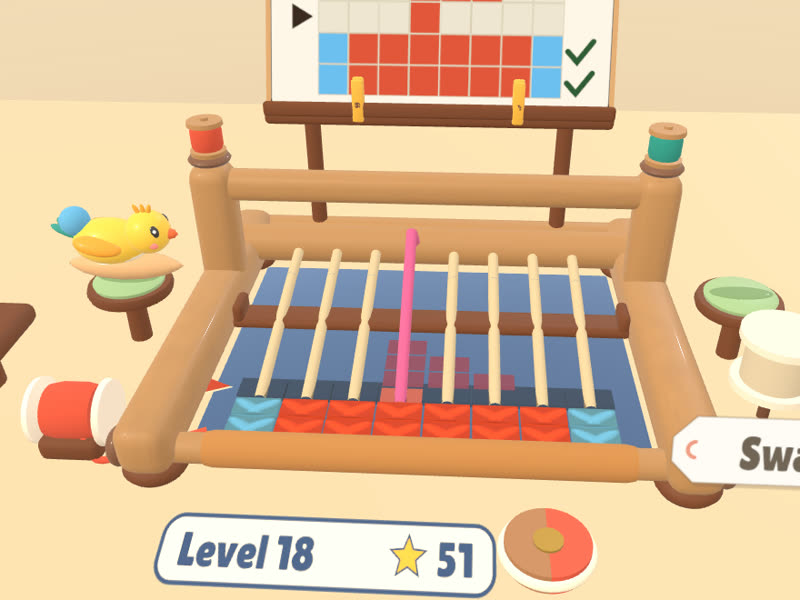
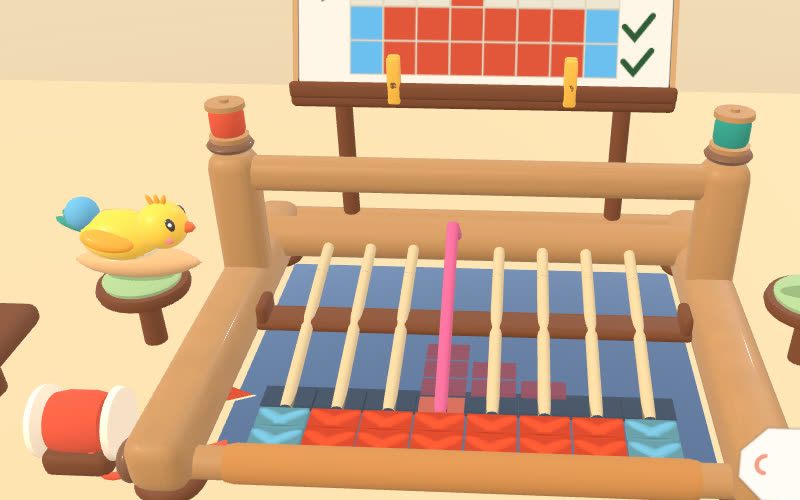
Site review 5 (8/10) fixes: pegs only on the hero, the steps and the phone; paper things are taped; buttons are felt patches with a running stitch; two-ply twisted yarn (diagonal ply pattern) and real yarn loops through the tag holes; shadows by object (deep on photos, soft on paper, flat slip); on/

diff --git a/index.html b/index.html
@@ -57,7 +57,14 @@
 
       /* photos pinned to the felt with a wooden clothes peg */
       #landing .photo { position: relative; margin: 0; background: #fffaf0; padding: 8px 8px 10px; border-radius: 3px;
-        box-shadow: 0 6px 0 #0004, 0 14px 26px #0005; }
+        box-shadow: 0 2px 2px #0006, 0 12px 18px -6px #000a; }
+      /* masking tape: paper things are taped, photos are pegged */
+      #landing .tape { position: absolute; z-index: 3; top: -11px; left: 50%; width: 74px; height: 22px; margin-left: -37px;
+        background: linear-gradient(90deg, #0000 0 2px, #fff3d0b0 2px calc(100% - 2px), #0000 0), #fff3d0b0;
+        box-shadow: 0 1px 1px #0002; transform: rotate(-4deg); }
+      #landing .tape::before, #landing .tape::after { content: ''; position: absolute; top: 0; bottom: 0; width: 4px;
+        background: repeating-linear-gradient(180deg, #0000 0 3px, var(--felt) 3px 5px); opacity: .35; }
+      #landing .tape::before { left: 0; } #landing .tape::after { right: 0; }
       #landing .photo img, #landing .photo video { display: block; width: 100%; height: auto; border-radius: 2px; }
       #landing .photo figcaption { font: 600 12px/1.3 var(--serif); color: #6b5a4e; padding: 7px 2px 0; }
       #landing .photo .cap-tag { position: absolute; right: 14px; bottom: -16px; padding: 5px 12px 6px 20px; background: var(--mustard); color: var(--ink);
@@ -68,12 +75,12 @@
       #landing .peg::after { content: ''; position: absolute; left: 3px; right: 3px; top: 16px; height: 6px; border-radius: 3px; background: #8b8b8b; }
 
       /* hero: the pitch, and the real loom photo */
-      #landing .hero { display: grid; grid-template-columns: minmax(340px, 1fr) 1.15fr; gap: clamp(28px, 4vw, 56px); align-items: start; }
+      #landing .hero { display: grid; grid-template-columns: minmax(400px, 1fr) 1.08fr; gap: clamp(28px, 4vw, 56px); align-items: start; }
       #landing .hero-photo { margin-top: 18px; }
       #landing .hero-photo { transform: rotate(1.6deg); }
       #landing .pitch { position: relative; z-index: 1; min-width: 0; }
       #landing .mark { display: flex; align-items: center; gap: 16px; margin-bottom: 12px; }
-      #landing .weave { --cell: 13px; --gap: 2px; position: relative; flex: none;
+      #landing .weave { --cell: 15px; --gap: 1px; position: relative; flex: none;
         width: calc(8 * var(--cell) + 7 * var(--gap) + 16px); padding: 18px 8px 8px; border-radius: 9px;
         background: var(--felt-deep); box-shadow: inset 0 2px 6px #0007; }
       #landing .weave .warps { position: absolute; inset: 0 8px; pointer-events: none;
@@ -87,7 +94,7 @@
       /* in the logo mark only the duck's own cells show: a clear little duck, not a bead grid */
       #landing .mark .warps { display: none; }
       #landing .mark .weave { background: none; box-shadow: none; padding-left: 0; padding-right: 0; }
-      #landing .mark .cloth .row.in i.gr { animation: none; opacity: .09; transform: none; }
+      #landing .mark .cloth i.gr { visibility: hidden; }
       #landing .mark .cloth i.beak { background: #f08a3c; }
       #landing .mark .cloth i.eye { background: #2b2320; }
       /* Pip sits on the duck's back, between its tail and its neck */
@@ -102,24 +109,28 @@
       @keyframes fly-l { from { opacity: 1; left: calc(100% - 6px); transform: scaleX(-1); } to { opacity: 1; left: -20px; transform: scaleX(-1); } }
       #landing .pip.rest { animation: none; opacity: 1; left: calc(100% - 14px); top: -12px; transform: scaleX(-1) rotate(-4deg); }
 
-      #landing h1 { font-family: var(--display); font-weight: 400; font-size: clamp(48px, 5.4vw, 74px); line-height: .95; margin: 0;
+      #landing h1 { font-family: var(--display); font-weight: 400; font-size: clamp(46px, 5vw, 70px); line-height: .95; margin: 0;
         color: var(--mustard); text-shadow: 0 5px 0 var(--walnut); }
       #landing #tagline { font-family: var(--display); font-size: clamp(21px, 2.3vw, 27px); line-height: 1.15; margin: 0 0 12px; color: var(--paper); text-wrap: balance; }
       #landing .lede { text-wrap: pretty; font: 600 17px/1.6 var(--serif); margin: 0 0 24px; max-width: 32em; color: #e8ddc8; }
       #landing .note { font: 600 14px/1.5 var(--serif); margin: 12px 0 0; max-width: 34em; color: #c9c5d8; }
-      #enter-xr { font-family: var(--display); font-size: 26px; padding: 16px 34px 18px; border-radius: 18px; border: 0; cursor: pointer;
-        background: var(--tomato); color: #fff6e8; box-shadow: 0 7px 0 #a8341f, 0 12px 20px #0005; transition: transform .08s, box-shadow .08s; }
-      #enter-xr:active { transform: translateY(5px); box-shadow: 0 2px 0 #a8341f; }
+      /* buttons are felt patches with a running stitch, like the felt on the loom */
+      #landing .patch { position: relative; border: 0; cursor: pointer; color: #fff6e8;
+        background: var(--felt-noise, none), var(--patch, var(--tomato)); border-radius: 16px;
+        box-shadow: 0 2px 2px #0005, 0 10px 16px -6px #0008; transition: transform .08s, box-shadow .08s; }
+      #landing .patch::after { content: ''; position: absolute; inset: 5px; border: 2px dashed #fff3e0a6; border-radius: 11px; pointer-events: none; }
+      #landing .patch:active { transform: translateY(2px); box-shadow: 0 1px 1px #0005; }
+      #enter-xr { font-family: var(--display); font-size: 26px; padding: 18px 36px 19px; }
       #landing .nohead { position: relative; background: var(--paper); color: var(--ink); border-radius: 3px; padding: 22px 20px 18px; max-width: 30em;
-        box-shadow: 0 5px 0 #0003; transform: rotate(-.8deg); margin-top: 14px; }
+        box-shadow: 0 1px 2px #0003, 0 6px 12px -6px #0005; transform: rotate(-.8deg); margin-top: 22px; }
       #landing .nohead[hidden] { display: none; }
       #landing .nohead p { margin: 0 0 12px; font: 600 15px/1.5 var(--serif); }
       #landing .row { display: flex; gap: 8px; flex-wrap: wrap; }
       #landing .row input { width: 6.5em; text-align: center; text-transform: uppercase; letter-spacing: .2em; font: 600 17px system-ui, sans-serif;
         padding: 9px 10px; border-radius: 12px; border: 2px solid var(--walnut); background: #fff; color: var(--ink); }
-      #landing .row button, #coop .row button { font: 400 18px var(--display); padding: 9px 18px 11px; border-radius: 12px; border: 0; cursor: pointer;
-        background: var(--walnut); color: var(--paper); box-shadow: 0 4px 0 #4a2a18; }
-      #call-join { background: var(--tomato) !important; box-shadow: 0 4px 0 #a8341f !important; }
+      #landing .row button, #coop .row button { font: 400 18px var(--display); padding: 10px 20px 11px; --patch: var(--walnut); }
+      #call-join, #coop-join { --patch: var(--tomato) !important; }
+      #landing .row input, #coop-code { background: var(--paper) !important; border: 2px dashed var(--walnut) !important; border-radius: 10px !important; }
       #style-pick { position: relative; display: flex; gap: 6px; align-items: center; background: var(--paper); color: var(--ink); padding: 8px 14px 8px 30px;
         transform: rotate(-1.2deg); clip-path: polygon(12px 0, 100% 0, 100% 100%, 12px 100%, 0 calc(100% - 12px), 0 12px); font: 600 15px var(--serif); }
       #style-pick::before { content: ''; position: absolute; left: 12px; top: 50%; width: 8px; height: 8px; margin-top: -4px; border-radius: 50%; background: var(--felt); box-shadow: 0 0 0 2px var(--tomato); }
@@ -140,16 +151,16 @@
       #landing .steps .s1 .photo { transform: rotate(-3.6deg); }
       #landing .steps .s2 .photo { transform: rotate(2.7deg); }
       #landing .steps .s3 .photo { transform: rotate(-1.2deg); }
-      #landing .steps .s1 .peg { left: 34%; }
+      #landing .steps .s1 .peg { left: 22%; }
       #landing .steps .s2 .peg { left: 63%; transform: rotate(6deg); }
       #landing .steps .s3 .peg { left: 46%; transform: rotate(-4deg); }
       #landing .steps img { aspect-ratio: 4 / 3; object-fit: cover; }
       /* the step's note on a paper luggage tag tucked under its photo */
       #landing .hang { position: relative; z-index: 4; width: min(100%, 280px); margin: -22px 0 0 16px; padding: 12px 16px 13px 30px;
-        font: 600 14.5px/1.5 var(--serif); color: var(--ink); background: var(--paper); box-shadow: 0 4px 0 #0003; transform: rotate(1.6deg);
+        font: 600 14.5px/1.5 var(--serif); color: var(--ink); background: var(--paper); box-shadow: 0 1px 2px #0004; transform: rotate(1.6deg);
         clip-path: polygon(12px 0, 100% 0, 100% 100%, 12px 100%, 0 calc(100% - 12px), 0 12px); text-wrap: pretty; }
       #landing .hang::before { content: ''; position: absolute; left: 11px; top: 18px; width: 7px; height: 7px; border-radius: 50%;
-        background: var(--felt); box-shadow: 0 0 0 1.5px var(--tomato); }
+        background: var(--felt); box-shadow: inset 0 1px 1px #0006; }
       #landing .hang b { display: block; font: 400 19px/1.1 var(--display); color: var(--walnut); margin-bottom: 4px; }
       #landing .s2 .hang { margin-left: auto; margin-right: 6px; transform: rotate(-2.2deg); }
       #landing .s3 .hang { margin-left: 34px; transform: rotate(.8deg); }
@@ -164,11 +175,11 @@
       #landing .more > .photo:last-of-type { transform: rotate(3.1deg); }
       #landing .more > .photo:first-of-type .peg { left: 28%; }
       #landing .more > .photo:last-of-type .peg { left: 66%; }
-      #landing .note-card { position: relative; background: var(--paper); color: var(--ink); padding: 20px 22px 18px; border-radius: 3px; box-shadow: 0 5px 0 #0003; transform: rotate(.7deg); }
+      #landing .note-card { position: relative; background: var(--paper); color: var(--ink); padding: 20px 22px 18px; border-radius: 3px; box-shadow: 0 1px 2px #0003, 0 6px 12px -6px #0005; transform: rotate(.7deg); }
       #landing .note-card b { display: block; font: 400 22px/1.15 var(--display); color: var(--walnut); margin-bottom: 8px; }
       #landing .note-card p { margin: 0; font: 600 15px/1.6 var(--serif); text-wrap: pretty; }
       #landing .note-card .peg { left: 22%; transform: rotate(-8deg); }
-      #landing .more img { aspect-ratio: 4 / 3; object-fit: cover; }
+      #landing .more img { aspect-ratio: 16 / 10; object-fit: cover; }
       #landing .more > .photo:last-of-type img { object-position: 45% 45%; }
 
 
@@ -179,24 +190,21 @@
       #share-card figcaption b { display: block; font: 400 22px var(--display); color: var(--mustard); margin-bottom: 8px; }
       #share-card[hidden] { display: none; }
       #cloth-img { max-width: min(200px, 60vw); border-radius: 3px; border: 8px solid #fffaf0; box-shadow: 0 5px 0 #0004; image-rendering: auto; }
-      #share-btn { font: 400 18px var(--display); padding: 9px 18px 11px; border-radius: 12px; border: 0; cursor: pointer;
-        background: var(--walnut); color: var(--paper); box-shadow: 0 4px 0 #4a2a18; }
+      #share-btn { font: 400 18px var(--display); padding: 10px 20px 11px; --patch: var(--walnut); }
       #share-note { display: block; font-size: 13px; color: #c9c5d8; max-width: 90vw; word-break: break-all; margin-top: 6px; }
 
       /* settings: paper luggage tags with a yarn loop, like the hints in the game */
       #landing h2.before { position: relative; margin: 0 0 6px; padding: 10px 22px 9px; font: 400 21px var(--display); color: var(--walnut);
-        background: var(--paper); border-radius: 2px; box-shadow: 0 4px 0 #0003; transform: rotate(-1.5deg); }
-      #landing h2.before .peg { top: -22px; }
+        background: none; color: var(--mustard); border-radius: 0; box-shadow: none; transform: rotate(-1.5deg); }
       #settings { display: flex; flex-wrap: wrap; gap: 16px 30px; justify-content: center; align-items: center; padding-left: 20px; }
       #landing .tagwrap { position: relative; display: inline-flex; }
       #landing .tagwrap:nth-child(1) { transform: rotate(-2deg); }
       #landing .tagwrap:nth-child(2) { transform: rotate(1.5deg); }
       #landing .tagwrap:nth-child(3) { transform: rotate(-1deg); }
       /* a loop of red yarn through the punched hole */
-      #landing .string { position: absolute; z-index: 2; left: -20px; top: 50%; width: 36px; height: 18px; margin-top: -9px; pointer-events: none;
-        border: 2.5px solid var(--tomato); border-right-color: transparent; border-radius: 50%; }
-      #landing .tag::after { content: 'Off'; margin-left: 10px; font-size: 12px; font-weight: 700; padding: 1px 7px; border-radius: 6px; background: #3b2a2014; }
-      #landing .tag[aria-checked='true']::after, #landing .tag[aria-pressed='true']::after { content: 'On'; background: #3b2a20; color: var(--mustard); }
+      #landing .string { position: absolute; z-index: 2; left: -21px; top: 50%; width: 40px; height: 26px; margin-top: -13px; pointer-events: none; }
+      #landing .tag::after { content: 'off'; margin-left: 10px; font: 400 14px var(--display); color: #3b2a2066; }
+      #landing .tag[aria-checked='true']::after, #landing .tag[aria-pressed='true']::after { content: 'on'; color: var(--tomato); }
       #landing .tag, #hand-pick { position: relative; font: 600 15px var(--serif); color: var(--ink); background: var(--paper);
         border: 0; padding: 9px 16px 9px 30px; cursor: pointer;
         clip-path: polygon(12px 0, 100% 0, 100% 100%, 12px 100%, 0 calc(100% - 12px), 0 12px); }
@@ -214,7 +222,7 @@
 
       /* play together: a paper card pegged to the felt, with the caller's phone beside it */
       #coop { position: relative; display: grid; grid-template-columns: 210px 1fr; gap: 26px; align-items: center; background: var(--paper); color: var(--ink);
-        border-radius: 4px; padding: 26px 28px 22px; box-shadow: 0 5px 0 #0003; max-width: 820px; width: 100%; align-self: center; transform: rotate(-.4deg); }
+        border-radius: 4px; padding: 26px 28px 22px; box-shadow: 0 1px 2px #0003, 0 8px 16px -8px #0006; max-width: 820px; width: 100%; align-self: center; transform: rotate(-.4deg); }
       #coop .phone { padding: 6px; transform: rotate(-3deg); margin: -44px 0 -10px; }
       #coop .phone img { border-radius: 14px; }
       #coop .phone .peg { left: 14%; transform: rotate(-10deg); }
@@ -223,16 +231,16 @@
       #coop .row { margin: 6px 0 10px; align-items: center; }
       #coop .row button, #coop-code { height: 44px; padding-top: 0; padding-bottom: 0; }
       #coop .or { font: 600 14px var(--serif); color: #6b5a4e; }
-      #coop-join { background: var(--tomato) !important; box-shadow: 0 4px 0 #a8341f !important; }
+
       #coop-code { width: 6.5em; text-align: center; text-transform: uppercase; letter-spacing: .2em; font: 600 17px system-ui, sans-serif;
         padding: 9px 10px; border-radius: 12px; border: 2px solid var(--walnut); background: #fff; color: var(--ink); }
-      #coop-status { min-height: 1.4em; font-weight: 700; color: var(--walnut); margin: 0 !important; }
+      #coop-status { font-weight: 700; color: var(--walnut); margin: 0 !important; }
+      #coop-status:empty { display: none; }
       #coop .fine { font: 600 13px/1.5 var(--serif); color: #6b5a4e; margin: 6px 0 0; }
 
       #landing .foot { display: flex; justify-content: center; margin-top: -6px; }
       #landing .slip { position: relative; margin: 0; max-width: 46em; padding: 14px 20px 13px; background: var(--paper); color: var(--ink); border-radius: 2px;
-        font: 600 13.5px/1.5 var(--serif); text-align: center; box-shadow: 0 4px 0 #0003; transform: rotate(.6deg); text-wrap: balance; }
-      #landing .slip .peg { left: 18%; transform: rotate(-6deg); }
+        font: 600 13.5px/1.5 var(--serif); text-align: center; box-shadow: 0 1px 1px #0002; transform: rotate(.3deg); text-wrap: balance; }
       #landing .slip a { color: var(--walnut); text-underline-offset: 3px; }
       #landing .slip a:focus-visible { outline: 3px solid var(--tomato); outline-offset: 2px; }
       #landing button:focus-visible, #landing input:focus-visible, #landing summary:focus-visible { outline: 3px solid var(--mustard); outline-offset: 3px; }
@@ -263,7 +271,7 @@
         #coop .row { display: grid; grid-template-columns: 1fr auto; }
         #coop-host { grid-column: 1 / -1; }
         #coop .or { grid-column: 1 / -1; text-align: center; }
-        #coop-code { width: 100%; }
+        #landing #coop-code { width: 100%; }
         #coop-leave { grid-column: 1 / -1; }
       }
       @media (prefers-reduced-motion: reduce) {

diff --git a/src/ui/landing.ts b/src/ui/landing.ts
@@ -42,13 +42,13 @@ export function mountLanding(world: World): void {
             <p id="tagline">A tiny loom on your real desk. Hands only.</p>
             <p class="lede">Lift the levers, slide Pip across, and each row you weave sings. Finish a picture and it comes alive as a little knitted toy.</p>
             <div class="go">
-              <button id="enter-xr" type="button">Enter mixed reality</button>
+              <button id="enter-xr" class="patch" type="button">Enter mixed reality</button>
               <p class="note">Sit at a desk with your controllers down and hand tracking on.</p>
             </div>
             <div class="nohead" id="xr-unsupported" hidden>
-              <i class="peg" aria-hidden="true"></i>
+              <i class="tape" aria-hidden="true"></i>
               <p>This browser can't open mixed reality. Open this page in your headset's browser, or join a friend's loom as their caller:</p>
-              <div class="row"><input id="call-code" maxlength="4" placeholder="CODE" aria-label="Friend's room code" autocomplete="off" /><button type="button" id="call-join">Join as caller</button></div>
+              <div class="row"><input id="call-code" maxlength="4" placeholder="CODE" aria-label="Friend's room code" autocomplete="off" /><button type="button" id="call-join" class="patch">Join as caller</button></div>
             </div>
 
           </div>
@@ -64,8 +64,9 @@ export function mountLanding(world: World): void {
 
         <section class="line" aria-label="How it plays">
           <svg class="yarn" viewBox="0 0 1000 90" preserveAspectRatio="none" aria-hidden="true">
-            <path d="M-10 6 Q 230 80 480 52 T 1010 14" fill="none" stroke="#c43c28" stroke-width="5" stroke-linecap="round"/>
-            <path d="M-10 6 Q 230 80 480 52 T 1010 14" fill="none" stroke="#f07a62" stroke-width="2.2" stroke-dasharray="5 6" stroke-linecap="round"/>
+            <defs><pattern id="ply-red" width="7" height="7" patternUnits="userSpaceOnUse" patternTransform="rotate(55)"><rect width="7" height="7" fill="#c43c28"/><rect width="3.2" height="7" fill="#ee6a4f"/></pattern></defs>
+            <path d="M-10 6 Q 230 80 480 52 T 1010 14" fill="none" stroke="#8f2a1c" stroke-width="7" stroke-linecap="round" opacity=".35"/>
+            <path d="M-10 6 Q 230 80 480 52 T 1010 14" fill="none" stroke="url(#ply-red)" stroke-width="5.5" stroke-linecap="round"/>
           </svg>
           <ol class="steps">
             <li class="s1"><figure class="photo"><i class="peg"></i><img loading="lazy" src="${sitePhoto('levers-close.jpg')}" alt="The red lever lifts its threads" width="800" height="600" /></figure>
@@ -79,30 +80,31 @@ export function mountLanding(world: World): void {
 
         <section class="more" aria-label="What else is on the desk">
           <svg class="yarn small-yarn" viewBox="0 0 1000 60" preserveAspectRatio="none" aria-hidden="true">
-            <path d="M-10 30 Q 300 4 520 22 T 1010 10" fill="none" stroke="#1a8f80" stroke-width="4" stroke-linecap="round"/>
-            <path d="M-10 30 Q 300 4 520 22 T 1010 10" fill="none" stroke="#5cc9b9" stroke-width="1.8" stroke-dasharray="5 6" stroke-linecap="round"/>
+            <defs><pattern id="ply-teal" width="6" height="6" patternUnits="userSpaceOnUse" patternTransform="rotate(55)"><rect width="6" height="6" fill="#178a7b"/><rect width="2.8" height="6" fill="#4fc2b1"/></pattern></defs>
+            <path d="M-10 30 Q 300 4 520 22 T 1010 10" fill="none" stroke="#0d5d53" stroke-width="6" stroke-linecap="round" opacity=".35"/>
+            <path d="M-10 30 Q 300 4 520 22 T 1010 10" fill="none" stroke="url(#ply-teal)" stroke-width="4.5" stroke-linecap="round"/>
           </svg>
-          <figure class="photo small"><i class="peg"></i><img loading="lazy" src="${sitePhoto('shelf.jpg')}" alt="Finished plushes on a little shelf with a brass wind-up key" width="800" height="600" /></figure>
-          <div class="note-card"><i class="peg"></i><b>Four chapters, eighteen pictures</b><p>Garden teaches your hands, Home combines levers, Night hides what they lift, and Sea weaves in two colours. Wind the key on your shelf and your plushes sing their songs in turn.</p></div>
-          <figure class="photo small"><i class="peg"></i><img loading="lazy" src="${sitePhoto('sea-boat.jpg')}" alt="A red boat woven on blue water rows" width="800" height="600" /></figure>
+          <figure class="photo small"><i class="tape"></i><img loading="lazy" src="${sitePhoto('shelf.jpg')}" alt="Finished plushes on a little shelf with a brass wind-up key" width="800" height="500" /></figure>
+          <div class="note-card"><i class="tape"></i><b>Four chapters, eighteen pictures</b><p>Garden teaches your hands, Home combines levers, Night hides what they lift, and Sea weaves in two colours. Wind the key on your shelf and your plushes sing their songs in turn.</p></div>
+          <figure class="photo small"><i class="tape"></i><img loading="lazy" src="${sitePhoto('sea-boat.jpg')}" alt="A red boat woven on blue water rows" width="800" height="500" /></figure>
         </section>
 
         <div class="drawer">
         <figure id="share-card" hidden>
-          <span class="pegged"><i class="peg"></i><img id="cloth-img" alt="Your last woven cloth" /></span>
+          <span class="pegged"><i class="tape"></i><img id="cloth-img" alt="Your last woven cloth" /></span>
           <figcaption>
             <b>Your last picture</b>
-            <button type="button" id="share-btn">Share this cloth</button>
+            <button type="button" id="share-btn" class="patch">Share this cloth</button>
             <span id="share-note" role="status"></span>
           </figcaption>
         </figure>
 
         <div class="prep">
-        <h2 class="before"><i class="peg" aria-hidden="true"></i>Before you start</h2>
+        <h2 class="before">Before you start</h2>
         <div id="settings" aria-label="Settings">
-          <span class="tagwrap"><i class="string" aria-hidden="true"></i><button type="button" class="tag" id="hc" role="switch" aria-checked="false">High contrast</button></span>
-          <span class="tagwrap"><i class="string" aria-hidden="true"></i><button type="button" class="tag" id="music" role="switch" aria-checked="true">Music</button></span>
-          <span class="tagwrap"><i class="string" aria-hidden="true"></i><button type="button" class="tag" id="fit" aria-pressed="false">Fit to my hands</button></span>
+          <span class="tagwrap"><svg class="string" viewBox="0 0 40 26" aria-hidden="true"><path d="M33 13 C 24 2, 6 2, 3 11 C 1 19, 14 25, 24 19 C 28 17, 31 15, 33 13" fill="none" stroke="#e8553e" stroke-width="2.6" stroke-linecap="round"/></svg><button type="button" class="tag" id="hc" role="switch" aria-checked="false">High contrast</button></span>
+          <span class="tagwrap"><svg class="string" viewBox="0 0 40 26" aria-hidden="true"><path d="M33 13 C 24 2, 6 2, 3 11 C 1 19, 14 25, 24 19 C 28 17, 31 15, 33 13" fill="none" stroke="#e8553e" stroke-width="2.6" stroke-linecap="round"/></svg><button type="button" class="tag" id="music" role="switch" aria-checked="true">Music</button></span>
+          <span class="tagwrap"><svg class="string" viewBox="0 0 40 26" aria-hidden="true"><path d="M33 13 C 24 2, 6 2, 3 11 C 1 19, 14 25, 24 19 C 28 17, 31 15, 33 13" fill="none" stroke="#e8553e" stroke-width="2.6" stroke-linecap="round"/></svg><button type="button" class="tag" id="fit" aria-pressed="false">Fit to my hands</button></span>
           <div role="radiogroup" aria-label="Lever side" id="hand-pick">
             <span class="lbl">Levers on the</span>
             <button type="button" data-hand="auto" role="radio" title="On the side of the hand you place the loom with">placing hand</button>
@@ -124,10 +126,10 @@ export function mountLanding(world: World): void {
             <h2 id="coop-title">No headset? Be the caller on your phone.</h2>
             <p>The weaver hosts a loom in their headset and reads out the code. Open this page on your phone and join: you see the card and press the levers while they slide Pip. A friend in a second headset can join as the shuttle thrower instead.</p>
             <div class="row">
-              <button type="button" id="coop-host">Host a loom</button>
+              <button type="button" id="coop-host" class="patch">Host a loom</button>
               <span class="or">or</span>
               <input id="coop-code" maxlength="4" placeholder="CODE" aria-label="Room code" autocomplete="off" />
-              <button type="button" id="coop-join">Join</button>
+              <button type="button" id="coop-join" class="patch">Join</button>
               <button type="button" id="coop-leave" hidden>Leave</button>
             </div>
             <p id="coop-status" role="status"></p>
@@ -136,7 +138,7 @@ export function mountLanding(world: World): void {
         </section>
 
         <footer class="foot">
-          <p class="slip"><i class="peg" aria-hidden="true"></i>Made for a mixed-reality game jam, November 2026, with IWSDK. Every sound is CC0: <a href="${import.meta.env.BASE_URL}audio/CREDITS.md">see the credits</a>.</p>
+          <p class="slip">Made for a mixed-reality game jam, November 2026, with IWSDK. Every sound is CC0: <a href="${import.meta.env.BASE_URL}audio/CREDITS.md">see the credits</a>.</p>
         </footer>
       </main>
     </div>`;
